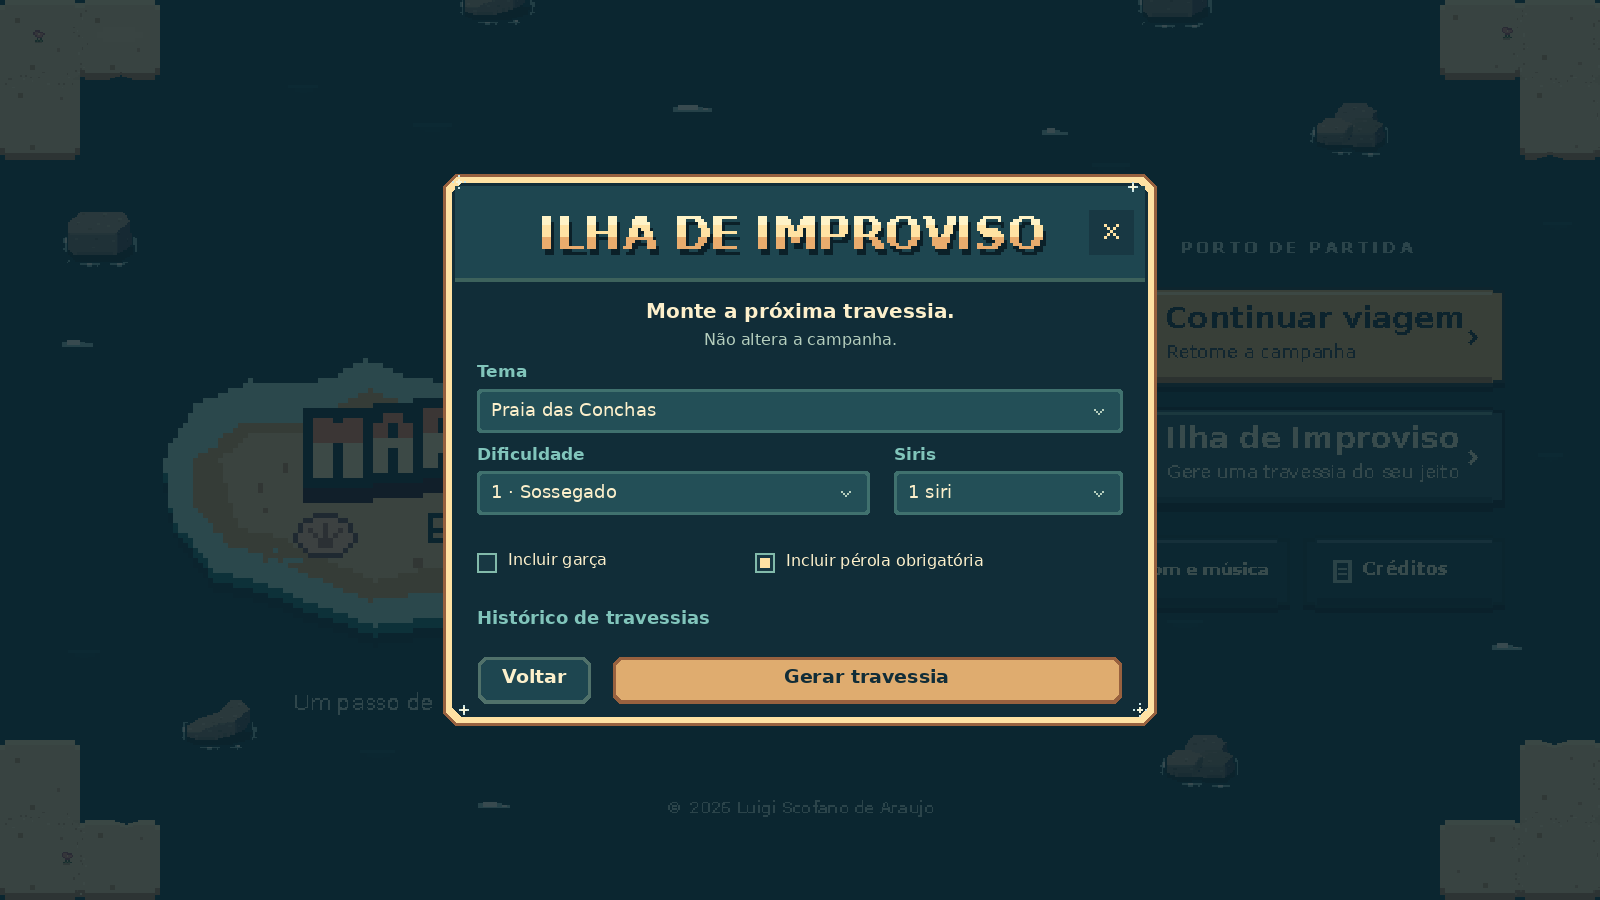
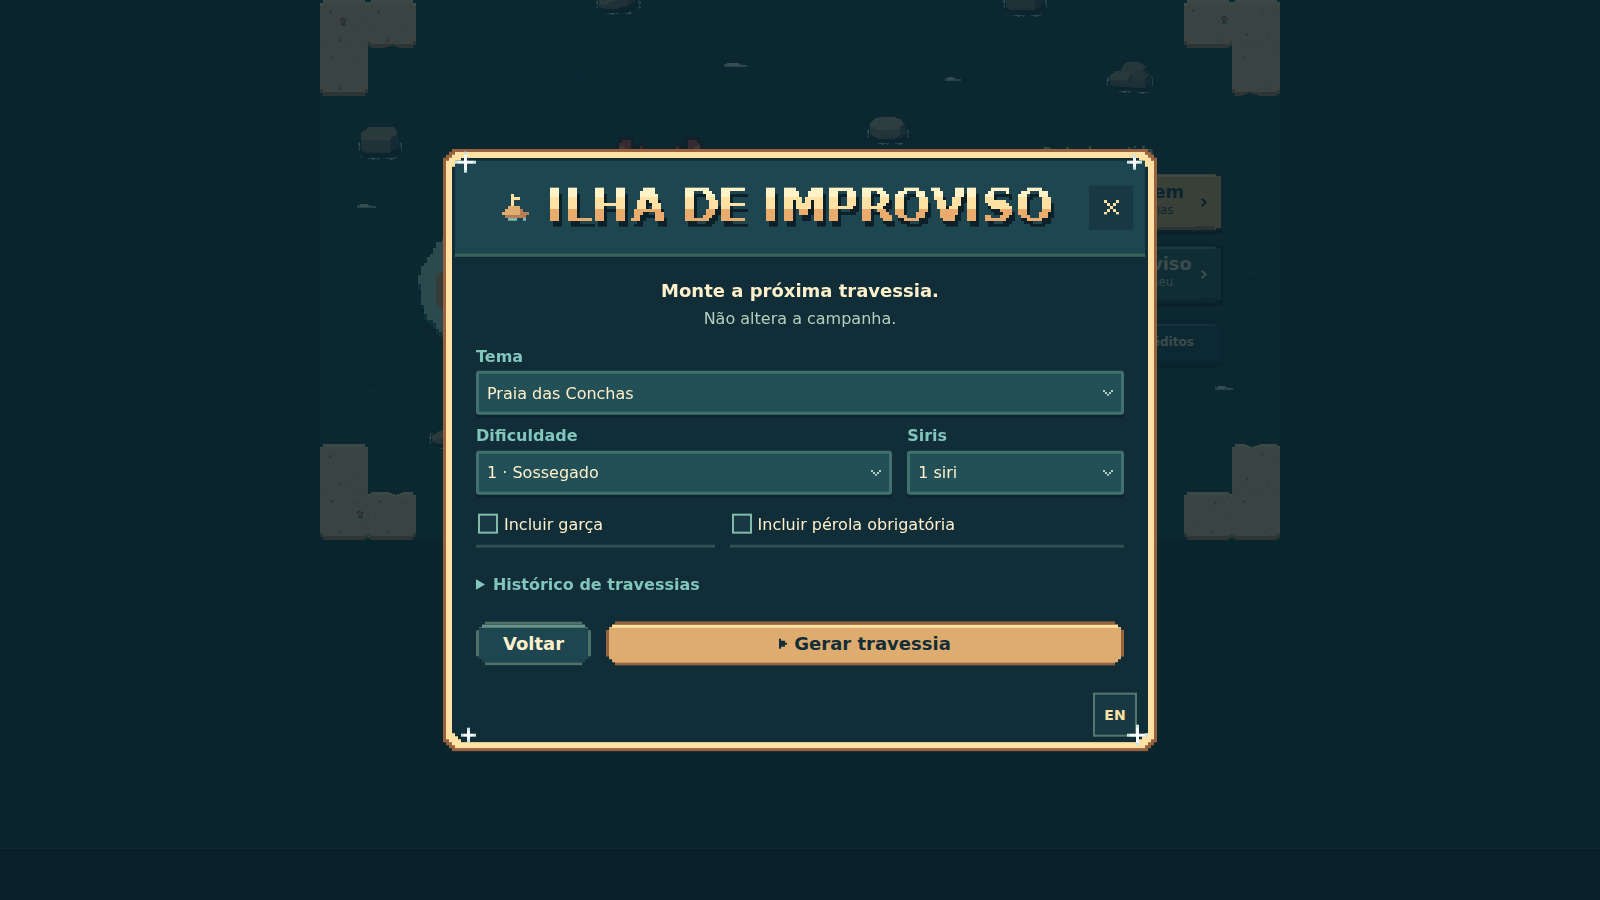
docs: renovar as capturas da interface de Entre Ilhas

diff --git a/README.en.md b/README.en.md
@@ -43,7 +43,7 @@ With the game open, select **EN** in the lower-right corner to play in English. 
 
 ## Game gallery
 
-Crossing frames come from the official engine and camera. The interface views include film frames recomposed from the game’s art and actual interface states, along with two approved mobile previews. [Image sources and resolutions](docs/arte/galeria/README.en.md).
+Crossing frames come from the official engine and camera. The interface images are browser screenshots of the offline HTML with the current typography, without the cursor, on desktop and at an emulated mobile viewport. [Image sources and resolutions](docs/arte/galeria/README.en.md).
 
 <details open>
 <summary><strong>Starting Harbor, Archipelago, and support panels</strong></summary>
@@ -66,7 +66,7 @@ Crossing frames come from the official engine and camera. The interface views in
 
 | Harbor on mobile | Archipelago on mobile |
 | --- | --- |
-| <a href="docs/arte/galeria/telas/porto-celular.png"><img src="docs/arte/galeria/telas/porto-celular.png" alt="Approved mobile preview of the harbor" width="240"></a> | <a href="docs/arte/galeria/telas/arquipelago-celular.png"><img src="docs/arte/galeria/telas/arquipelago-celular.png" alt="Approved mobile preview of the archipelago" width="240"></a> |
+| <a href="docs/arte/galeria/telas/porto-celular.png"><img src="docs/arte/galeria/telas/porto-celular.png" alt="Harbor with the current type in an emulated mobile viewport" width="240"></a> | <a href="docs/arte/galeria/telas/arquipelago-celular.png"><img src="docs/arte/galeria/telas/arquipelago-celular.png" alt="Archipelago in an emulated mobile viewport" width="240"></a> |
 
 </details>
 

diff --git a/docs/arte/galeria/README.md b/docs/arte/galeria/README.md
@@ -17,7 +17,7 @@ Os sprites foram recortados das mesmas folhas e coordenadas usadas pelo renderiz
 
 A imagem que destaca o botão de idioma é uma composição editorial feita com as camadas localizadas, não uma captura de navegador.
 
-Os PNGs de computador são quadros da edição visual de [Os oito mundos](../animacoes/README.md#os-oito-mundos), preparados com a arte e os estados reais da interface para a montagem. Não são registro contínuo de uma sessão. As duas telas de celular são prévias aprovadas, não capturas em aparelho físico.
+As **19 imagens de navegação** foram capturadas no Chromium, diretamente da edição offline com a tipografia atual e sem cursor. A janela de computador mede **1600 × 900**; as duas telas móveis usam uma janela de **390 × 844** emulada, não um celular físico. Os cartões acessíveis foram demonstrados com progresso de teste em um perfil descartável. O [filme Os oito mundos](../animacoes/README.md#os-oito-mundos) é um registro separado e mantém a apresentação da gravação original.
 
 - Porto de Partida: [computador](telas/porto.png) · [celular](telas/porto-celular.png).
 - Arquipélago: [página 1](telas/arquipelago-1.png) · [página 2](telas/arquipelago-2.png) · [página 3](telas/arquipelago-3.png) · [página 4](telas/arquipelago-4.png) · [celular](telas/arquipelago-celular.png).

diff --git a/docs/arte/galeria/README.en.md b/docs/arte/galeria/README.en.md
@@ -19,7 +19,7 @@ The sprites were cropped from the same sheets and coordinates used by the render
 
 The image highlighting the language button is an editorial composition using the localized artwork, not a browser screenshot.
 
-The desktop PNGs are frames from the visual edit of [The eight worlds](../animacoes/README.en.md#the-eight-worlds), prepared using the real interface artwork and states for the montage. They are not a continuous session recording. The two mobile screens are approved previews, not captures from a physical device.
+All **19 interface screenshots** were taken in Chromium directly from the offline edition with current typography and without the cursor. Desktop views are **1600 × 900**; the two mobile views use an emulated **390 × 844** viewport, not a physical phone. Available cards were demonstrated with test progress in a disposable profile. [The Eight Worlds film](../animacoes/README.en.md#the-eight-worlds) is a separate record and retains its original presentation.
 
 - Porto de Partida: [desktop](telas/porto.png) · [mobile](telas/porto-celular.png).
 - Arquipélago: [page 1](telas/arquipelago-1.png) · [page 2](telas/arquipelago-2.png) · [page 3](telas/arquipelago-3.png) · [page 4](telas/arquipelago-4.png) · [mobile](telas/arquipelago-celular.png).
